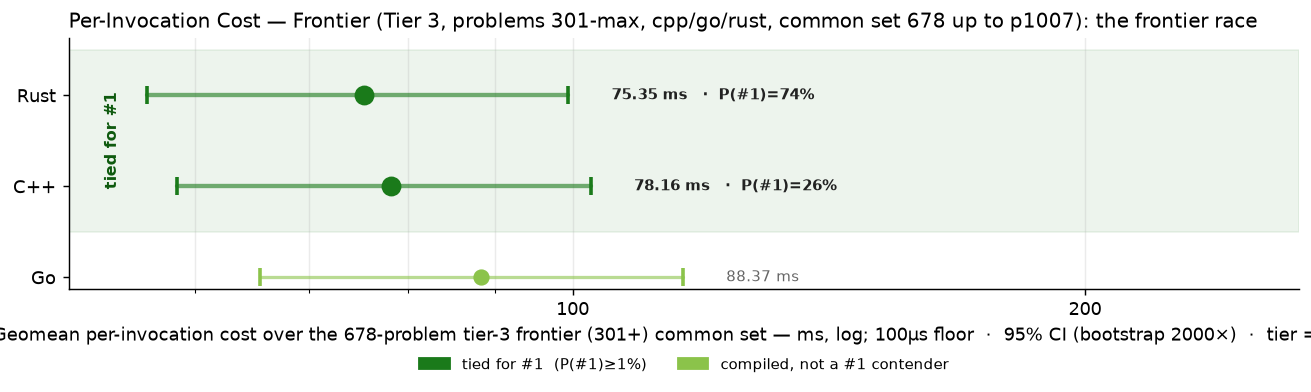
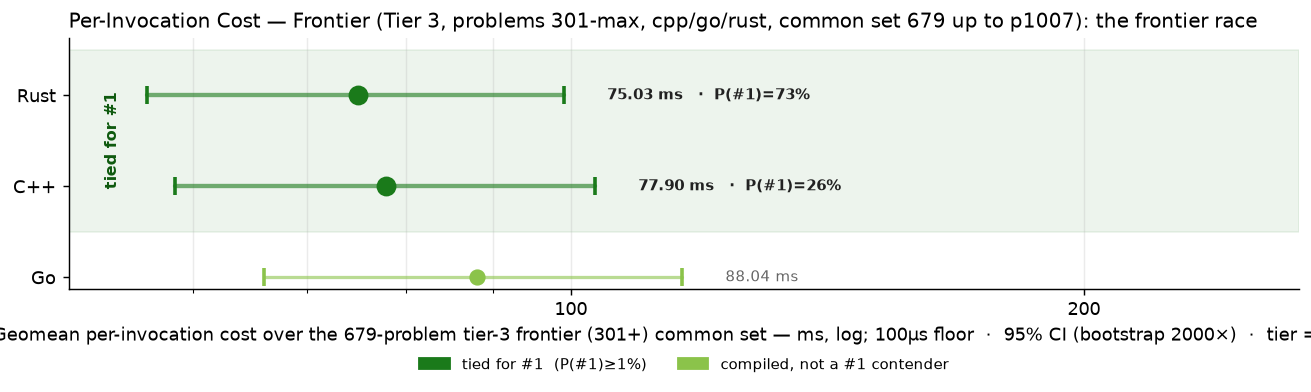
cpp p0909

diff --git a/RESULTS.md b/RESULTS.md
@@ -1,6 +1,6 @@
 # Project Euler — Cross-Language Benchmarks
 
-> **Scope: 4521 in-scope cells across 1007 problems × tiered languages — 4461 measured (98.7% coverage).**
+> **Scope: 4521 in-scope cells across 1007 problems × tiered languages — 4462 measured (98.7% coverage).**
 > The cross-language ranking below is computed over the **200-problem common set** (problems in 1-200 where every language has a passing measurement) — the apples-to-apples Foundation comparison surface.  Per-tier rankings and coverage detail appear further below.
 > Growing carefully — each new problem and language is audited for state-leak
 > safety, verified for answer correctness, and added only when it cleanly fits the
@@ -70,15 +70,15 @@ Same scatter as the Foundation chart, restricted to the tier-2 active languages 
 
 The frontier verification trio — C++, Go, Rust — on problems above 300. 3-way cross-language agreement is the verification protocol (strictly stronger than 2-way; see JOURNEY.md "Tier Reframing" episode for the p254 lesson that motivated it). Python and Zig are explicitly out of this tier — python's wall cost makes it impractical at level 5+, and zig's role caps at Tier 2.
 
-### Per-Invocation Cost (Common Set, 678 of ≤707 problems in scope)
+### Per-Invocation Cost (Common Set, 679 of ≤707 problems in scope)
 
 ![Per-Invocation Cost — Tier 3](charts/per_iter_total_tier3.png)
 
-| Rank | Language | Geomean (678-problem common set) | Total (sum) | Lines of code | vs Fastest |
+| Rank | Language | Geomean (679-problem common set) | Total (sum) | Lines of code | vs Fastest |
 |------|----------|--------------------:|------------:|--------------:|-----------:|
-| 1 | **Rust** | 75.35 ms | 1767.28 s | 137,323 | 1.00× |
-| 2 | **C++** | 78.16 ms | 1920.42 s | 100,668 | 1.04× |
-| 3 | **Go** | 88.37 ms | 2140.53 s | 128,345 | 1.17× |
+| 1 | **Rust** | 75.03 ms | 1767.29 s | 137,518 | 1.00× |
+| 2 | **C++** | 77.90 ms | 1920.43 s | 101,058 | 1.04× |
+| 3 | **Go** | 88.04 ms | 2140.54 s | 128,715 | 1.17× |
 
 ### Speed vs Code Size
 
@@ -264,7 +264,7 @@ table never silently mixes versions (METHODOLOGY.md §4).  Current state of the
 |----------|-----------|------:|---------------|
 | **ARM64** | `Apple clang version 21.0.0 (clang-2100.1.1.101)` | 200 | 2026-07-30 |
 | **C** | `Apple clang version 21.0.0 (clang-2100.1.1.101)` | 200 | 2026-07-30 |
-| **C++** | `Apple clang version 21.0.0 (clang-2100.1.1.101)` | 978 | 2026-09-06 |
+| **C++** | `Apple clang version 21.0.0 (clang-2100.1.1.101)` | 979 | 2026-09-06 |
 | **C#** | `10.0.101` | 200 | 2026-07-30 |
 | **Go** | `go version go1.26.5 darwin/arm64` | 981 | 2026-09-06 |
 | **Java** | `openjdk version "21.0.2" 2024-01-16 LTS` | 200 | 2026-07-30 |

diff --git a/per_problem/per_problem_0901-1000.md b/per_problem/per_problem_0901-1000.md
@@ -16,7 +16,7 @@ in tier-1 display order (native → managed → interpreted).
 | **p0906** | 1.54 s | 2.15 s | 80.43 s |
 | **p0907** | 20.7 µs | 21.3 µs | 28.0 µs |
 | **p0908** | 1.50 s† | 1.97 s | 1.51 s |
-| **p0909** | — | 4.17 ms | 7.36 ms |
+| **p0909** | 8.67 ms | 4.17 ms | 7.36 ms |
 | **p0910** | — | 909.53 ms | — |
 | **p0911** | 619.8 µs | 298.4 µs | 4.36 ms |
 | **p0912** | 1.11 ms | 6.24 ms | 13.9 µs |
